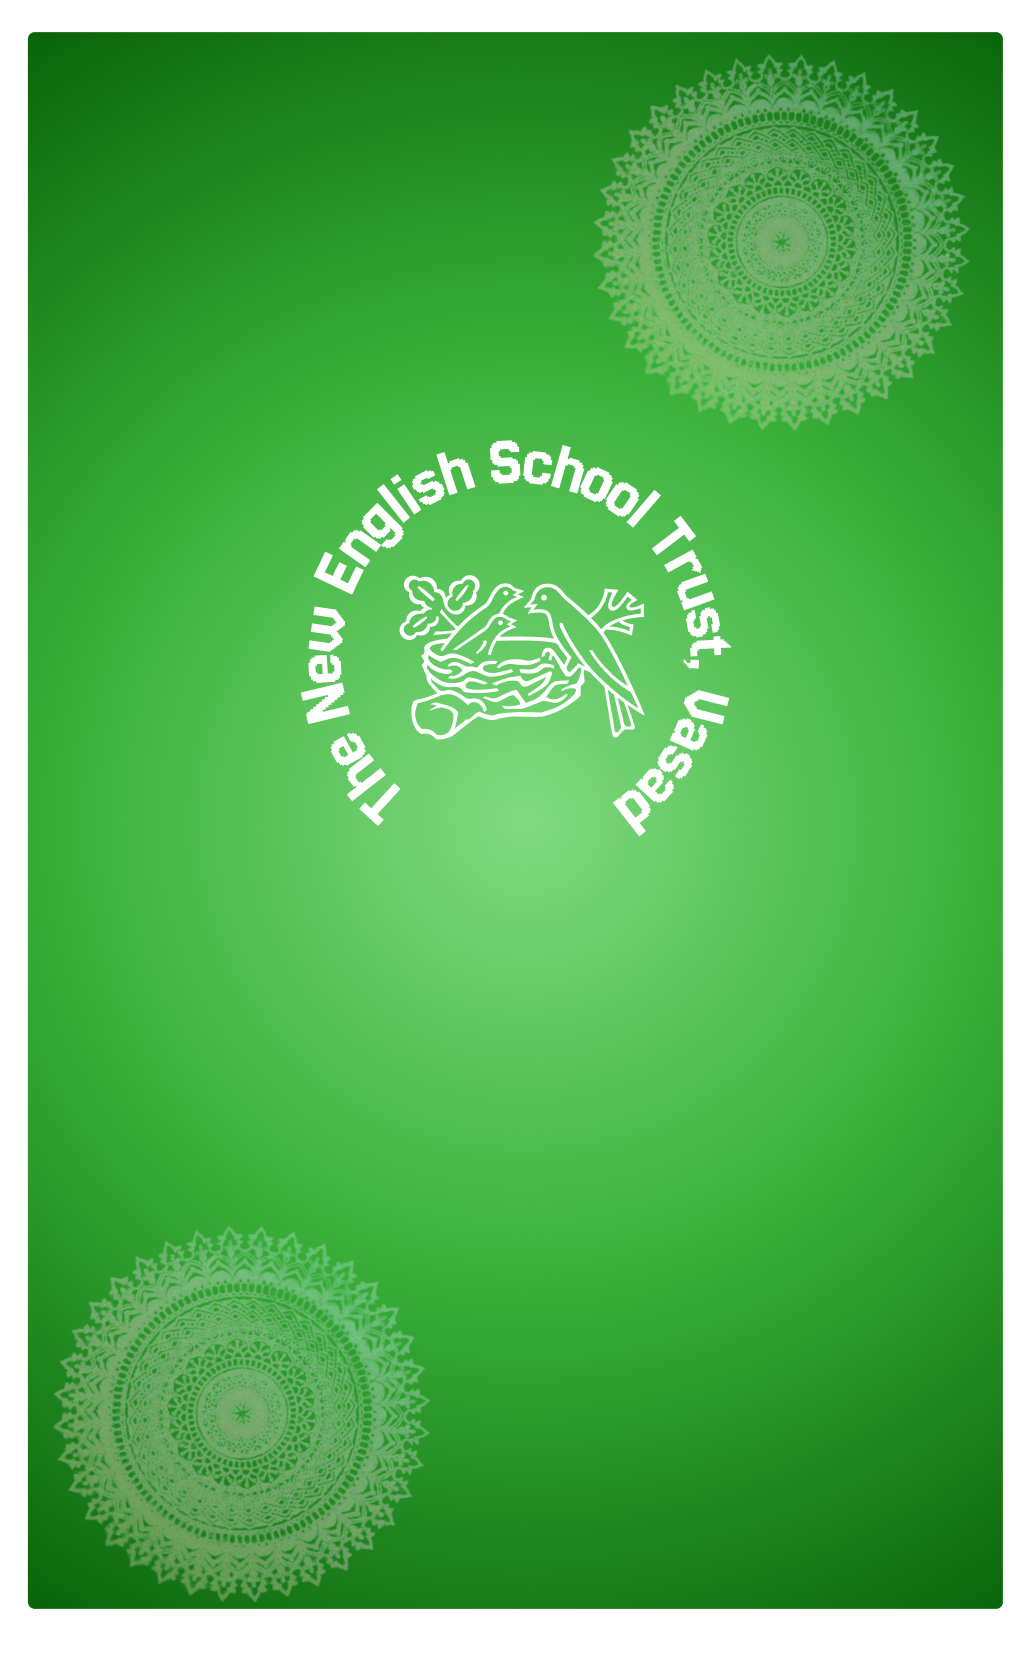
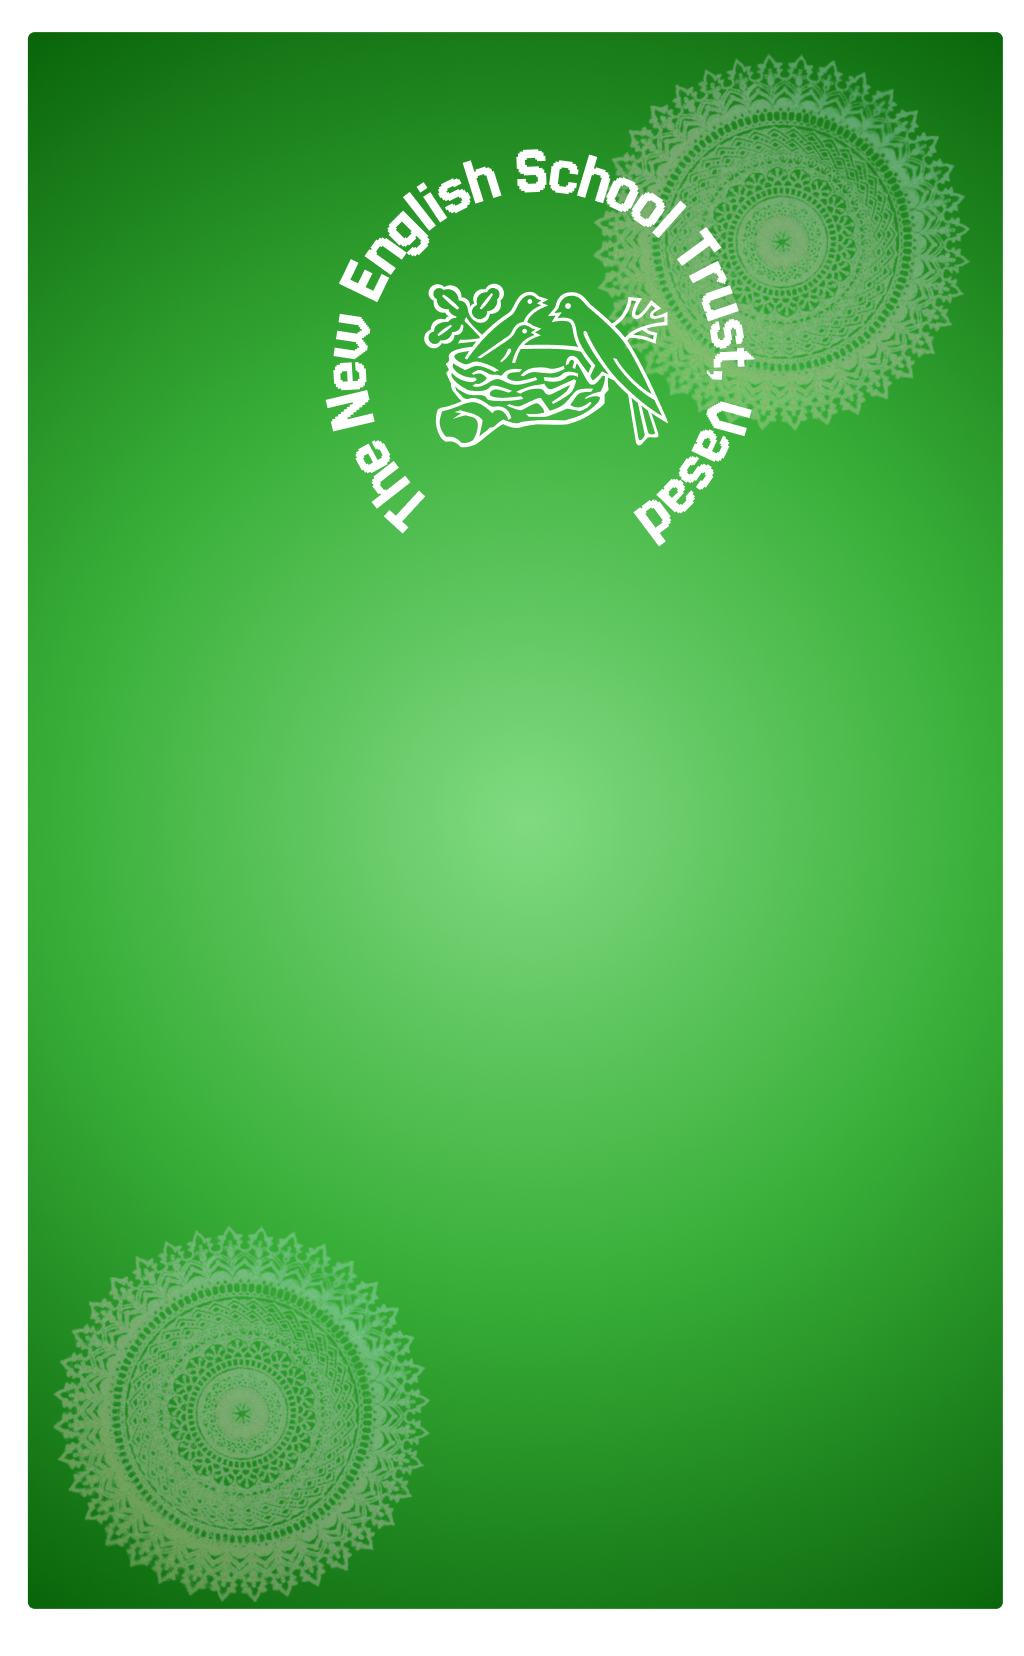
volntr update added donee

Changed region(s): [[0.2812, 0.0924, 0.75, 0.5236]]

diff --git a/src/routes/+page.svelte b/src/routes/+page.svelte
@@ -2,15 +2,16 @@
 // @ts-nocheck
 
 import {onMount} from "svelte";
+import logobg_voluntr from "$lib/images/bg_volantr.png"
 import logo from '$lib/images/logo.png'
 import logobg_male from '$lib/images/bg_male.png'
 import logobg_female from '$lib/images/bg_female (2).png'
 import logobg_sponsor from '$lib/images/bg_sponsor.png'
 import {toDataURL} from 'qrcode'
 import {supabase} from '../auth'
-	import { goto } from "$app/navigation";
-let dataTble,currRecord=null
+import { goto } from "$app/navigation";
 
+let dataTble,currRecord=null
 let currentPage=0,perPage=20
 let stRecord=currentPage,endRecord=stRecord+perPage-1
 let totalPage=1,loading=false
@@ -46,10 +47,9 @@ const fetchTble=async()=>{
 			dbquery1=dbquery1.not('city','ilike','Vasad')
 		else
 			dbquery1=dbquery1.ilike('city','%vasad%')
-
 		let { data: dataTble1,count:count, error } = await dbquery1.range(stRecord,endRecord)
 		if(dataTble1){
-			dataTble=dataTble1		
+			dataTble=dataTble1			
 			totalPage=Math.ceil(count/perPage)				
 			totalCount=count
 		}
@@ -77,8 +77,7 @@ const generateCanvas=(record) =>{
 			// 
             // Fill background
 			const logobg1 = new Image();			
-
-			logobg1.src = (record.category=='SPONSOR')?logobg_sponsor:((record.category=='MALE')?logobg_male:logobg_female);
+			logobg1.src = (record.category=='VOLUNTEER')?logobg_voluntr:((record.category=='SPONSOR')?logobg_sponsor:((record.category=='MALE')?logobg_male:logobg_female));
             logobg1.onload = ()=> {
 				ctx.clearRect(0, 0, canvas.width, canvas.height);
                 ctx.drawImage(logobg1,-12,0, canvas.width+24, canvas.height+2)
@@ -151,8 +150,11 @@ const generateCanvas=(record) =>{
 				// ctx.fillStyle='#ffd008'
 				// ctx.fillRect(0,canvas.height-48,canvas.width,48)
 				
+				ctx.fillText('Volunteer',canvas.width/2+5,canvas.height-50)
 				ctx.fillText('૨૦૨૫',canvas.width/2+5,canvas.height-28)
+				// 
 				// ctx.restore()
+				
 
 			};
         }
@@ -206,6 +208,8 @@ const generateCanvas=(record) =>{
 	const removeRecord=async()=>{
 		try {
 			loading=true
+
+
 			const { error } = await supabase
 			.from('DataTble')
 			.delete()
@@ -288,6 +292,7 @@ const generateCanvas=(record) =>{
 			<option>MALE</option>
 			<option>FEMALE</option>
 			<option>SPONSOR</option>
+			<option>VOLUNTEER</option>
 		</select>
 	</div>
 	<div class="bg-primary text-primary-content text-xl p-2 font-bold text-center">Total Entries Done:{totalCount}</div>
@@ -305,7 +310,7 @@ const generateCanvas=(record) =>{
 		</tr>
 		</thead>
 		<tbody>
-			{#each dataTble as record}
+		{#each dataTble as record}
 		<tr>
 			<td class='text-base-content text-center'>
 			<div class="flex items-center gap-3">
@@ -359,12 +364,6 @@ const generateCanvas=(record) =>{
 	
 	</div>
 {/if} 
-
-
-
-
-
-
 
 <dialog id="my_modal_5" class={ recordToRemove?"modal modal-open modal-bottom sm:modal-middle":"modal modal-bottom sm:modal-middle"}>
 	<div class="modal-box">

diff --git a/src/routes/entry/+page.svelte b/src/routes/entry/+page.svelte
@@ -52,7 +52,7 @@ let config = {
         html5QrcodeScanner.render(onScanSuccess, onScanFailure);        
     })
     const resetQR=()=>{
-        html5QrcodeScanner.clear()
+        html5QrcodeScanner.clear() 
         currentRecord=''
         html5QrcodeScanner = new Html5QrcodeScanner("reader", config,false);
         html5QrcodeScanner.render(onScanSuccess, onScanFailure);        

diff --git a/src/routes/attendance/+page.svelte b/src/routes/attendance/+page.svelte
@@ -214,6 +214,7 @@ const updateRecord=async()=>{
 					<option value="MALE">MALE</option>
 					<option value="FEMALE">FEMALE</option>
 					<option value="SPONSOR">SPONSOR</option>
+					<option value="VOLUNTEER">VOLUNTEER</option>
 				</select>
 			</div>
 		</div>
